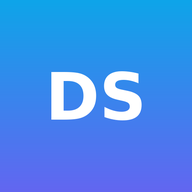
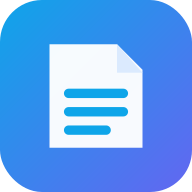
Add files via upload

diff --git a/index.html b/index.html
@@ -496,7 +496,7 @@
 </style>
 
 
-    <link rel="icon" type="image/png" sizes="192x192" href="/icons/icon-192.png">
+    <link rel="icon" type="image/png" sizes="192x192" href="/icon-192.png">
     <link rel="apple-touch-icon" href="/apple-touch-icon.png">
 </head>
 <body class="bg-slate-50 min-h-screen">